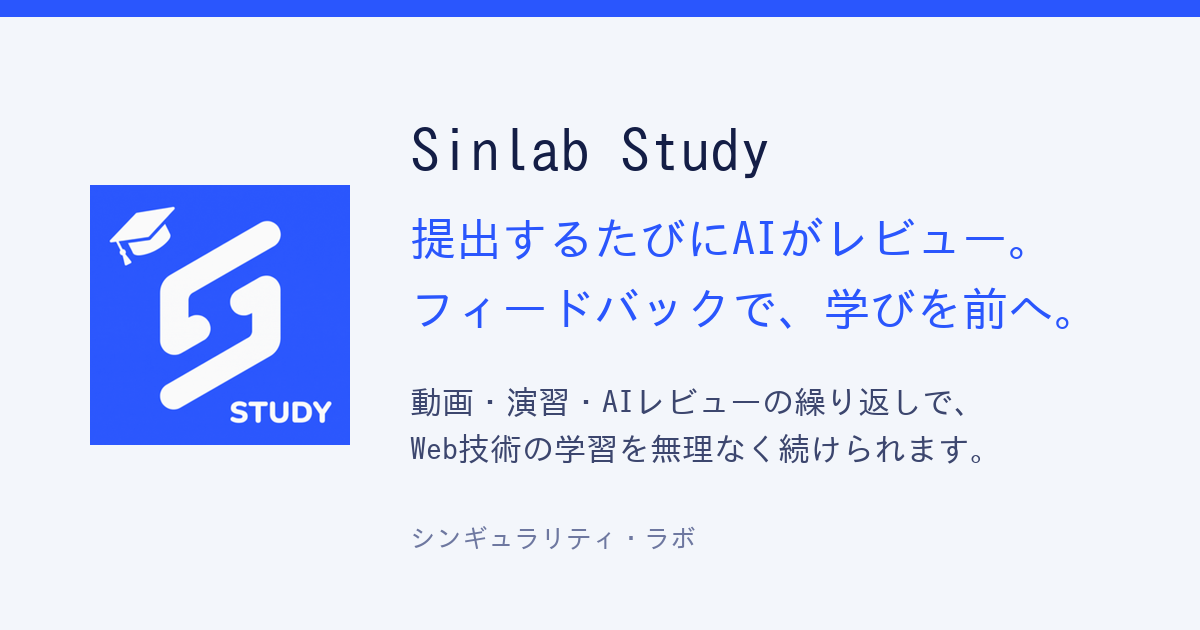
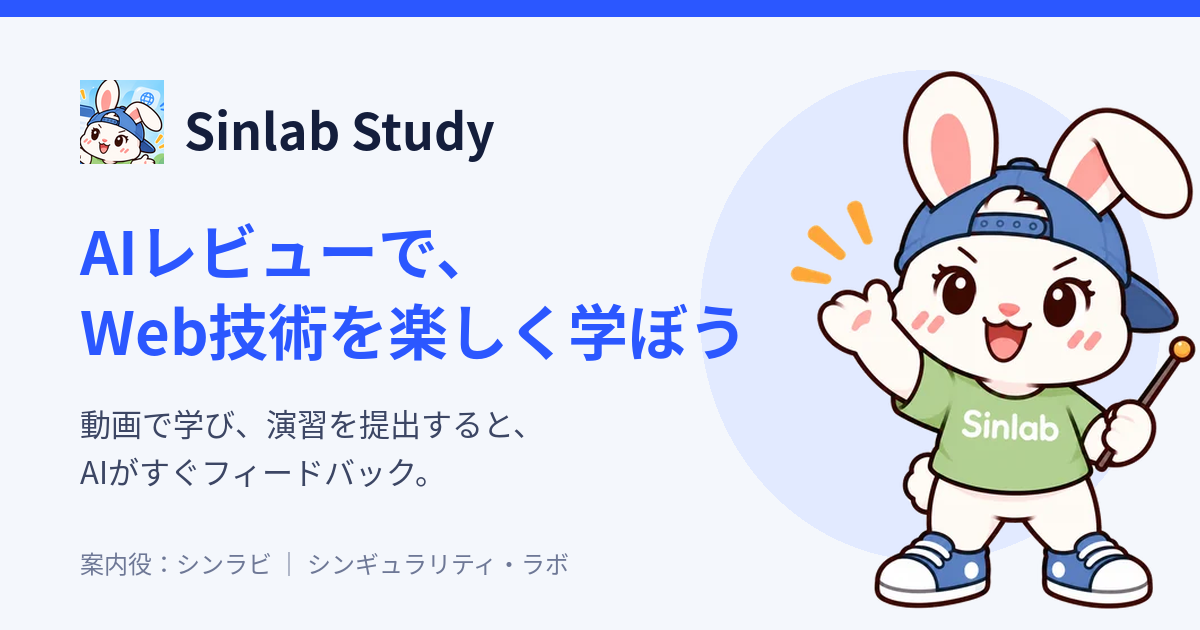
feat: SNS共有プレビュー（OGP）をシンラビ入りに刷新する (#498)
* feat: SNS共有プレビュー（OGP）をシンラビ入りに刷新する (#497)

Claude-Session: https://claude.ai/code/session_01V4jG5yDqxZtbUFnCCZdR78

* fix: OGPフッターの区切りと仕様書の表記を直す (#497)

Claude-Session: https://claude.ai/code/session_01V4jG5yDqxZtbUFnCCZdR78

---------

diff --git a/app/layout.tsx b/app/layout.tsx
@@ -3,7 +3,7 @@ import type { Metadata, Viewport } from "next";
 import { Geist, Geist_Mono } from "next/font/google";
 import { ColorSchemeSync } from "./components/ColorSchemeSync";
 import { ServiceWorkerRegistration } from "./components/ServiceWorkerRegistration";
-import { OGP_IMAGE_PATH, SITE_DESCRIPTION } from "./constants/ogp";
+import { OGP_IMAGE_ALT, OGP_IMAGE_PATH, SITE_DESCRIPTION, SITE_TITLE } from "./constants/ogp";
 import { PWA_NAME, PWA_THEME_COLOR_DARK, PWA_THEME_COLOR_LIGHT } from "./constants/pwa";
 import { buildColorSchemeInitScript } from "./lib/color-scheme";
 import "./globals.css";
@@ -25,19 +25,19 @@ const appUrl = process.env.NEXT_PUBLIC_APP_URL;
 
 export const metadata: Metadata = {
   ...(appUrl ? { metadataBase: new URL(appUrl) } : {}),
-  title: PWA_NAME,
+  title: SITE_TITLE,
   description: SITE_DESCRIPTION,
   openGraph: {
     type: "website",
     siteName: PWA_NAME,
     locale: "ja_JP",
-    title: PWA_NAME,
+    title: SITE_TITLE,
     description: SITE_DESCRIPTION,
-    images: [{ url: OGP_IMAGE_PATH, width: 1200, height: 630, alt: PWA_NAME }],
+    images: [{ url: OGP_IMAGE_PATH, width: 1200, height: 630, alt: OGP_IMAGE_ALT }],
   },
   twitter: {
     card: "summary_large_image",
-    title: PWA_NAME,
+    title: SITE_TITLE,
     description: SITE_DESCRIPTION,
     images: [OGP_IMAGE_PATH],
   },

diff --git a/app/constants/ogp.ts b/app/constants/ogp.ts
@@ -1,4 +1,8 @@
+export const SITE_TITLE = "Sinlab Study｜AIレビュー付きの学習サービス";
+
 export const SITE_DESCRIPTION =
-  "提出するたびにAIがレビュー。動画・演習・AIレビューの繰り返しで、Web技術の学習を無理なく続けられます。";
+  "動画で学び、演習を提出すると、AIがすぐフィードバック。シンラビと一緒に無理なく続けられます。";
 
 export const OGP_IMAGE_PATH = "/images/ogp.png";
+
+export const OGP_IMAGE_ALT = "Sinlab Study｜案内役のシンラビと、AIレビューで学ぶ";

diff --git a/docs/specification.md b/docs/specification.md
@@ -1606,7 +1606,7 @@ Resend でアカウントを作成して送信ドメイン（`future-tech-associ
 
 X・LINE・Facebook 向けの共有リンクを出す（印刷時は非表示）。X は `https://twitter.com/intent/tweet?text=...&url=...`、LINE は `https://social-plugins.line.me/lineit/share?url=...&text=...`、Facebook は `https://www.facebook.com/sharer/sharer.php?u=...&hashtag=%23SinlabStudy`（本文は載せられず、ハッシュタグは 1 つだけ）。LINE と Facebook は URL が必須のため、`NEXT_PUBLIC_APP_URL` が未設定ならボタンを出さない。共有先の URL 組み立ては `app/lib/certificate.ts`。Instagram は方式の設計が要るため見送り（#331）。
 
-共有先のログインページには OGP（`og:title` / `og:description` / `og:image`、`twitter:card=summary_large_image`）を設定する（`app/layout.tsx`）。画像は `public/images/ogp.png`（1200×630）。拡張子なしのルート（`opengraph-image` 等）にすると `proxy.ts` が `/login` へリダイレクトしクローラーが取得できないため、静的ファイルにする。`metadataBase` は `NEXT_PUBLIC_APP_URL`（未設定なら付けない）。
+共有先のログインページには OGP（`og:title` / `og:description` / `og:image`、`twitter:card=summary_large_image`）を設定する（`app/layout.tsx`）。画像は `public/images/ogp.png`（1200×630、シンラビ入り）。拡張子なしのルート（`opengraph-image` 等）にすると `proxy.ts` が `/login` へリダイレクトしクローラーが取得できないため、静的ファイルにする。`metadataBase` は `NEXT_PUBLIC_APP_URL`（未設定なら付けない）。
 
 X 向けの共有リンクの詳細：本文は「『{テーマ名}』を修了しました #SinlabStudy」、`url` はログインページ（`NEXT_PUBLIC_APP_URL` + `/login`。未設定なら `url` を付けない）。**修了証ページへのリンクは載せない**（本人のみ閲覧可のため）。公開検証ページはスコープ外（法人向けチームプランで必要になった時点で別イシュー）。
 
